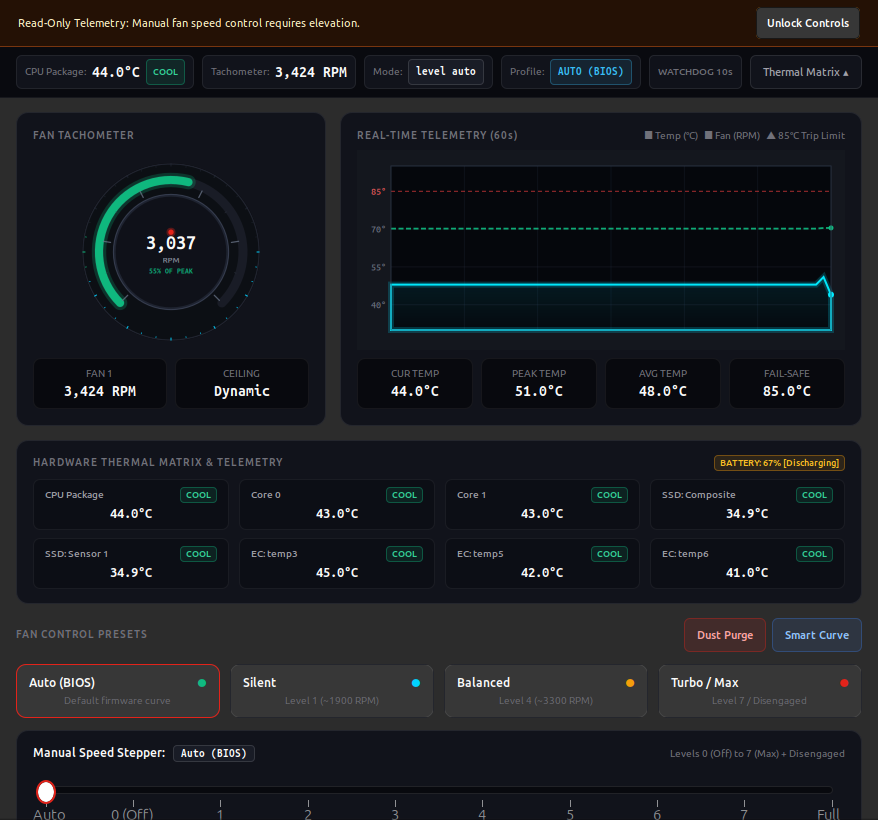
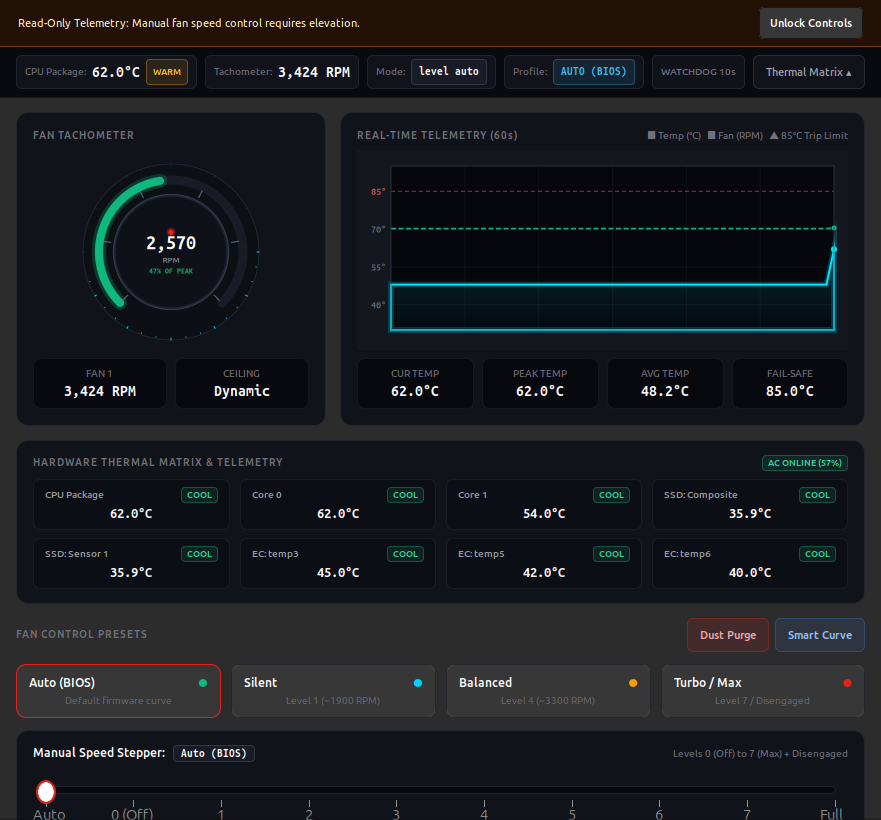
fix(ui): remove redundant headerbar fullscreen button (v1.1.7)

diff --git a/ui/app_window.py b/ui/app_window.py
@@ -295,23 +295,6 @@ button.btn-toggle-sensors:hover {
     letter-spacing: 0.3px;
 }
 
-button.btn-header-action {
-    background-image: none;
-    background-color: transparent;
-    border: 1px solid rgba(255, 255, 255, 0.08);
-    border-radius: 6px;
-    padding: 3px 8px;
-    color: #a1a1aa;
-    font-size: 12px;
-}
-
-button.btn-header-action:hover {
-    background-image: none;
-    background-color: #1a1c27;
-    border-color: rgba(255, 255, 255, 0.20);
-    color: #fafafa;
-}
-
 scrolledwindow {
     background-color: transparent;
     border: none;
@@ -392,7 +375,6 @@ class AppWindow(Gtk.Window):
         self.connect("delete-event", self._on_close_event)
         self.connect("size-allocate", self._on_window_size_allocate)
         self.connect("key-press-event", self._on_key_press_event)
-        self.connect("window-state-event", self._on_window_state_event)
 
     def _apply_css(self):
         screen = Gdk.Screen.get_default()
@@ -415,15 +397,6 @@ class AppWindow(Gtk.Window):
         ec_pill = Gtk.Label(label="DIRECT EC CONTROL")
         ec_pill.get_style_context().add_class("status-pill")
         header.pack_start(ec_pill)
-
-        # Fullscreen Toggle Button
-        self.btn_fullscreen = Gtk.Button()
-        self.btn_fullscreen.get_style_context().add_class("btn-header-action")
-        self.btn_fullscreen.set_tooltip_text("Toggle Fullscreen (F11)")
-        self.lbl_fs_icon = Gtk.Label(label="⛶")
-        self.btn_fullscreen.add(self.lbl_fs_icon)
-        self.btn_fullscreen.connect("clicked", self._on_toggle_fullscreen)
-        header.pack_end(self.btn_fullscreen)
         
         title_box = Gtk.Box(orientation=Gtk.Orientation.HORIZONTAL, spacing=6)
         red_dot = Gtk.Label(label="●")
@@ -858,12 +831,6 @@ class AppWindow(Gtk.Window):
                 self.unfullscreen()
                 return True
         return False
-
-    def _on_window_state_event(self, widget, event):
-        is_fs = bool(event.new_window_state & Gdk.WindowState.FULLSCREEN)
-        if hasattr(self, "lbl_fs_icon"):
-            self.lbl_fs_icon.set_text("🗗" if is_fs else "⛶")
-            self.btn_fullscreen.set_tooltip_text("Exit Fullscreen (Esc / F11)" if is_fs else "Toggle Fullscreen (F11)")
 
     def _on_app_quit(self):
         self.safety.restore_safe_state()

diff --git a/backend/__init__.py b/backend/__init__.py
@@ -8,5 +8,5 @@ from .safety_guard import SafetyGuard
 from .curve_engine import SmartCurveEngine
 from .notifier import NotificationManager
 
-__version__ = "1.1.6"
+__version__ = "1.1.7"
 __all__ = ["FanController", "SafetyGuard", "SmartCurveEngine", "NotificationManager", "__version__"]
